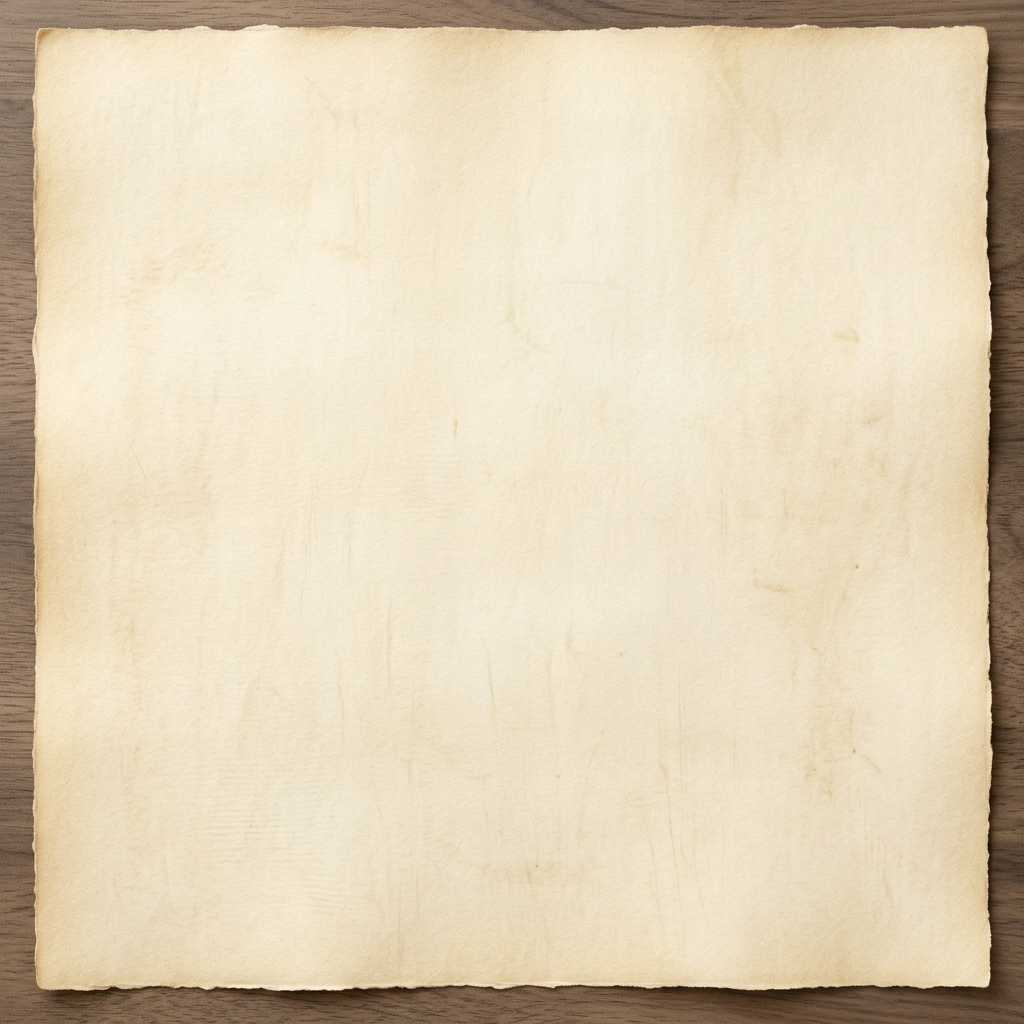
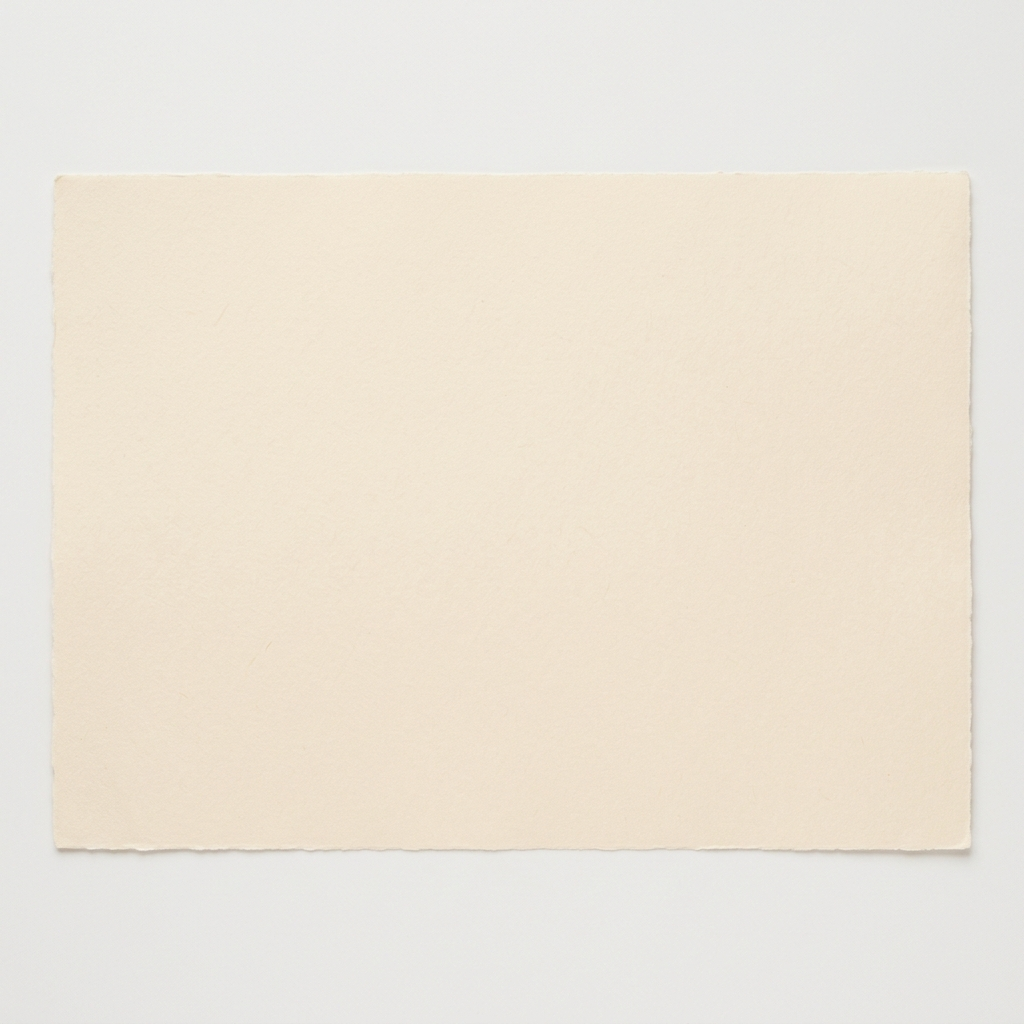
fix: clean solid cream background for manuscript, remove paper texture from main page

diff --git a/ekatmata-stotra/style.css b/ekatmata-stotra/style.css
@@ -108,9 +108,7 @@ body {
 
 .manuscript-page {
     position: relative;
-    background-image: url('assets/paper.png');
-    background-size: cover;
-    background-color: var(--parchment);
+    background-color: #F8F0E3;
     padding: 3rem 2.5rem;
     border-radius: 2px;
 
@@ -120,7 +118,6 @@ body {
         0 4px 6px rgba(0,0,0,0.15),
         0 12px 20px rgba(0,0,0,0.2),
         0 30px 60px var(--wood-shadow),
-        /* Page edge highlight */
         inset 0 0 0 1px rgba(255,255,255,0.08);
 }
 
